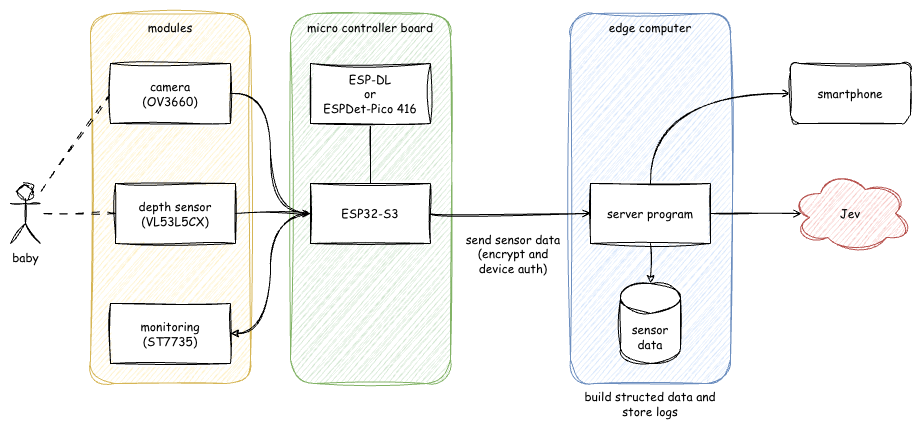
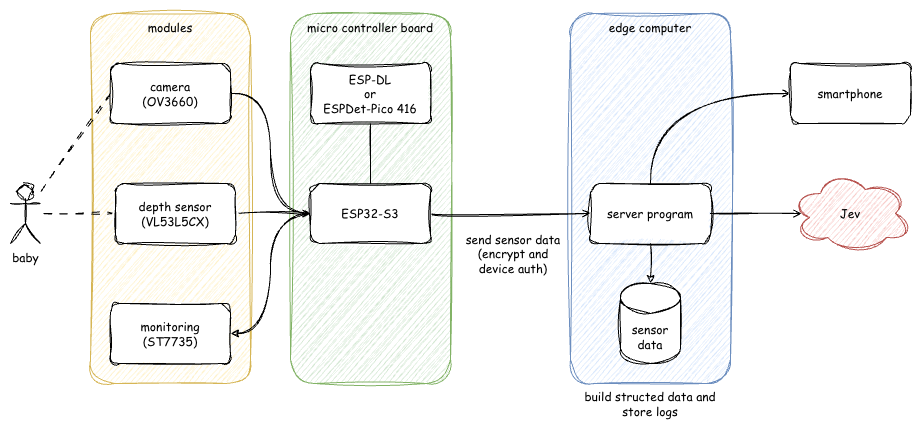
docs: update README for clarity and fix minor typos

diff --git a/README.md b/README.md
@@ -11,6 +11,10 @@ Freenove ESP32-S3 WROOM CAM と スイッチサイエンス Conta 基板 (VL53L5
 - 管理画面: HTTPS とデバイス固有の管理者認証。
 - ST7735 (128×160px) に深度マップを各ゾーン 16×16px、64 階調で表示します。下部に文字を 2 行表示します。
 
+## 注意
+
+本プロジェクトの各種資料に「商品」という単語が出てきますが、仮に商品化した場合の想定であり、現行の実装は開発用です。
+
 ## 構成
 
 ![prone-guard のアーキテクチャ](./docs/images/prone-guard-architecture.png)
@@ -75,7 +79,7 @@ cd prone-guard
 **以降のコマンドは、特記がなければ全てこのルート (`README.md` があるディレクトリ) で実行します。**
 新しいターミナルを使う場合も、このルートへ移動してください。
 
-**ESP-IDF の環境有効化は `setup.py` が行います。手動で `source export.sh` や activate を実行する必要はありません。**
+**ESP-IDF の環境有効化は `setup.py` が行います。手動で `source export.sh` や `activate.sh` を実行する必要はありません。**
 スクリプトは次の順で SDK を決め、必ずその SDK の `export.sh` を読み込みます。
 
 1. 環境変数 `IDF_PATH` がある場合は、その SDK を使う。
@@ -255,8 +259,8 @@ sudo update-ca-certificates
 別のターミナルで HTTPS 受付を確認する場合は、同じリポジトリルートから次を実行します。IP は設定したエッジの IP へ置き換えます。
 
 ```sh
-curl --fail --cacert edge/local/ca.pem https://192.168.1.50:8443/health
 # IP アドレスはエッジコンピュータの IP アドレスに置き換えてください
+curl --fail --cacert edge/local/ca.pem https://192.168.1.50:8443/health
 ```
 
 `"receiver":"ready"` はエッジの受付と保存領域が使用可能な状態です。
@@ -314,7 +318,7 @@ RGB666 の 64 階調を使い、各画素の明るさで距離を表します。
 下部 32px には、文字を 2 行表示します。
 1 行目は 6×16px の文字でマップ全体の状態と顔検知結果、
 2 行目は 8×16px の文字で凡例 `0-4m NEAR=WHITE` を表示します。
-顔検知時は `DEPTH / FACE ■ 12` と表示し、`■` は緑、面積は白です。
+顔検知時は `DEPTH / FACE ■ 12439` と表示し、`■` は緑、面積は白です。
 面積は 320×240 の座標系における顔矩形の面積を整数の px² で表示します (最大 76800) 。
 未検知・カメラ未取得・取得失敗時は `DEPTH / FACE x` と表示し、`x` は赤です。
 `NO DATA`・`NO VALID` では、画面内に収めるため `/` 前後の空白を省きます。
@@ -376,4 +380,4 @@ USB・配線・電源・センサーの方向・実 API の識別精度は実機
 - [要件](docs/current/REQUIREMENTS.md)
 - [仕様](docs/current/SPECIFICATIONS.md)
 - [設計](docs/current/DESIGN.md)
-- [商品向けの接続・登録設計](docs/current/CONNECTION.md)
+- [接続・登録設計](docs/current/CONNECTION.md)
